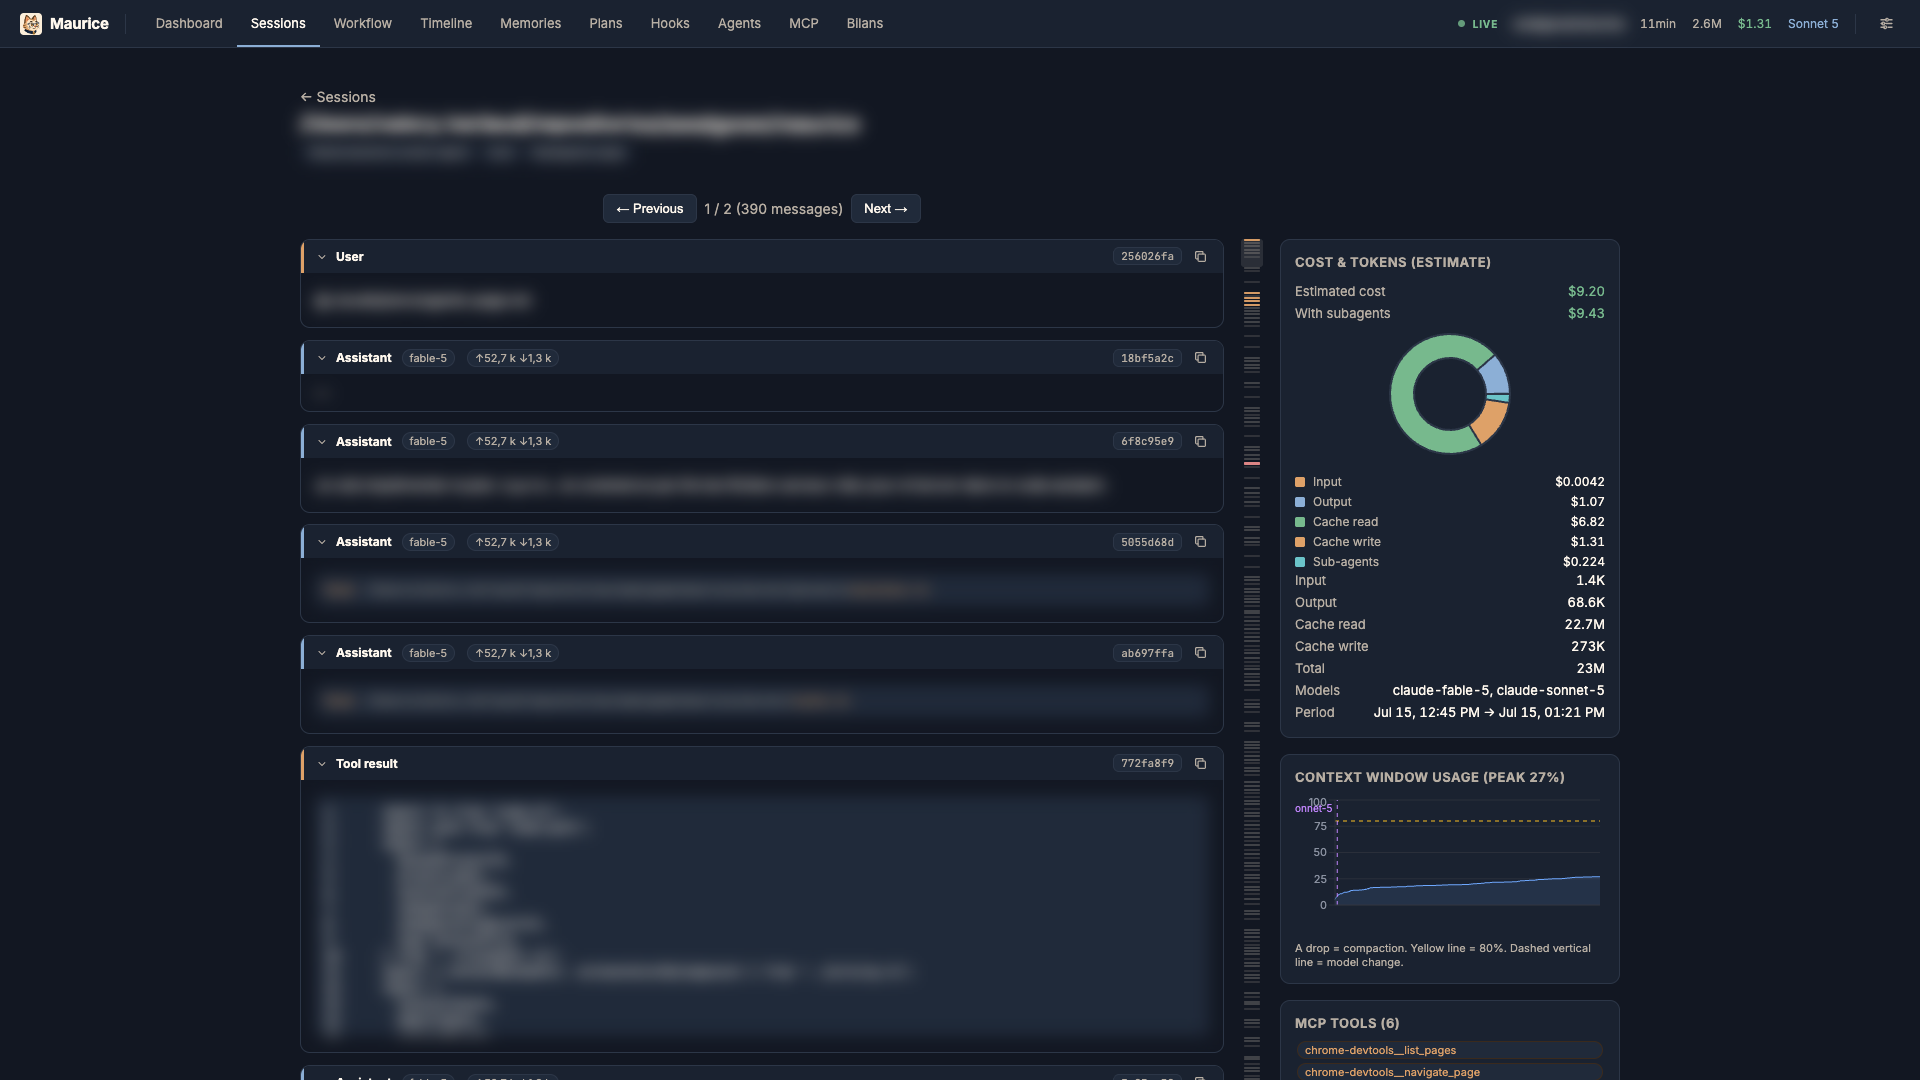
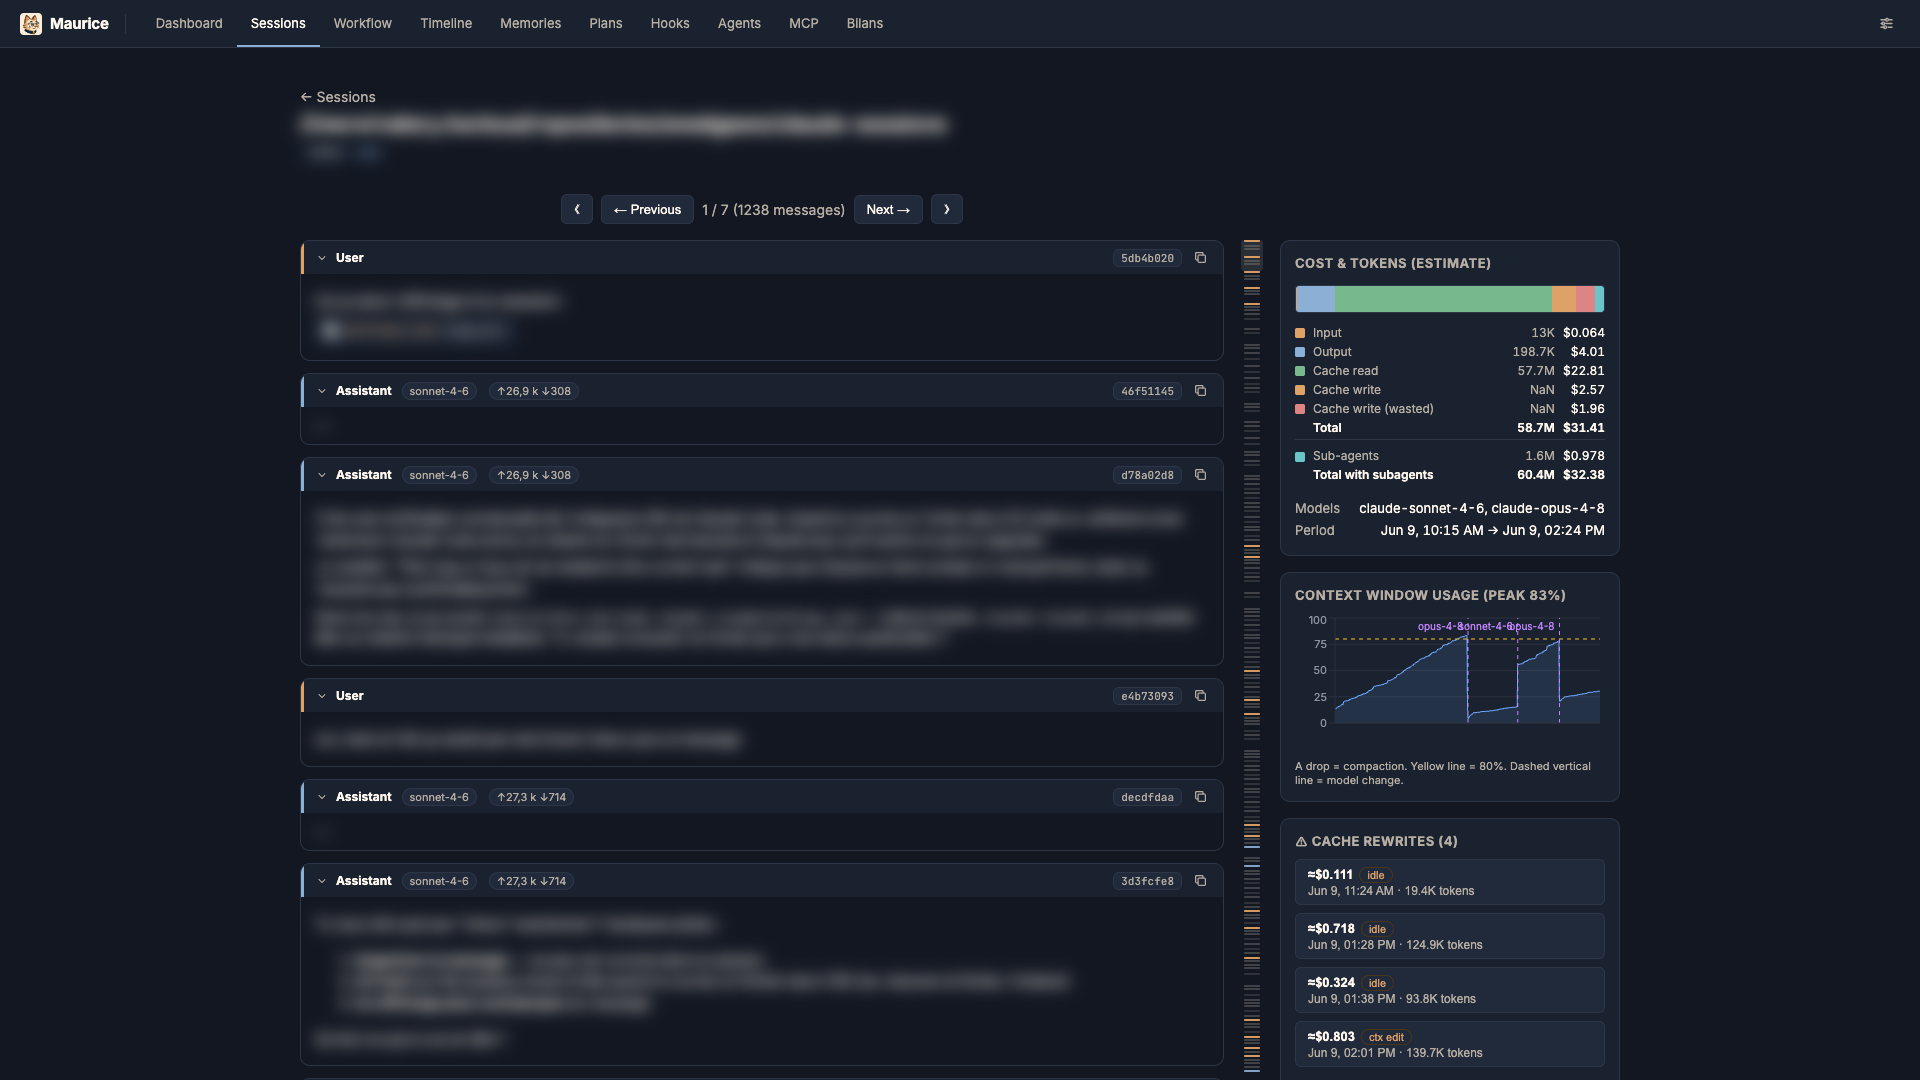
docs(release): describe cost breakdown table and refresh session-detail screenshot
README/CHANGELOG still described the retired cost-breakdown donut;
the panel is now a merged tokens+cost table with a stacked bar strip.
Recaptured docs/screenshots/session-detail.png to match.

diff --git a/README.md b/README.md
@@ -51,7 +51,7 @@ npm start        # serves dist/ + API on http://localhost:5174
 
 - **Dashboard** — analytics overview over a period (7 / 30 / 90 days / all): KPIs (cost, tokens, sessions, cost per session, cache-hit %, error rate), activity charts (cost & sessions over time, day×hour heatmap), cost breakdown by model / skill / project, most expensive sessions, token composition, context-peak distribution, and MCP tool usage. Cards link through to filtered Sessions.
 - **Sessions** — all sessions: project, ticket, skills, date, messages, tokens, **estimated cost**, **peak context window fill**, error badge, subagent count. Full-text search + filters (project / ticket / skill / model / MCP / errors). Includes a **branch column** and an **active session indicator** in the topbar.
-- **Detail** — readable thread (errors highlighted, thoughts collapsible), context window fill curve (drop = compaction, dashed markers on **model switches**, per-model window %), cost/token panel with a **cost breakdown donut** (input / output / cache read / cache write / subagents), **MCP** tools called, **subagents** (clickable transcripts, own cost surfaced, unified with the session view), and a "copy `claude --resume <id>`" button. First/last page navigation buttons (⟪ / ⟫). Renders **inline images** embedded in the thread — both uploaded images and those returned by MCP tool results. Navigate into/out of **rewind-abandoned thread forks**, with a deep link back to the divergence point. A quick-nav panel jumps straight to any **prompt-cache rewrite** warning in the thread.
+- **Detail** — readable thread (errors highlighted, thoughts collapsible), context window fill curve (drop = compaction, dashed markers on **model switches**, per-model window %), cost/token panel with a **cost breakdown table** merging tokens and estimated cost per component (input / output / cache read / cache write / subagents) with a stacked bar strip, **MCP** tools called, **subagents** (clickable transcripts, own cost surfaced, unified with the session view), and a "copy `claude --resume <id>`" button. First/last page navigation buttons (⟪ / ⟫). Renders **inline images** embedded in the thread — both uploaded images and those returned by MCP tool results. Navigate into/out of **rewind-abandoned thread forks**, with a deep link back to the divergence point. A quick-nav panel jumps straight to any **prompt-cache rewrite** warning in the thread.
 - **Cache rewrite warnings** — the provider's prompt cache expires after ~5min idle, so returning to a session after a break re-writes the whole context at the cache-write rate instead of reading it. Maurice detects this per billed request (idle vs. context-edit cause), flags it inline on the message, and aggregates it per session (count + estimated wasted cost) as a sortable column in Sessions.
 - **Workflow** — sessions pivoted by **skill** (default), ticket, or branch, with per-group aggregates. Tokens/cost in the skill pivot are attributed **per message** (`attributionSkill`), so no double-counting across skills.
 - **Timeline** — Gantt-style view of sessions as time-positioned bars, grouped into lanes by **ticket** (default), branch, or project, colored by model, with a period filter.

diff --git a/CHANGELOG.md b/CHANGELOG.md
@@ -8,7 +8,7 @@ All notable changes to this project are documented in this file. Format loosely 
 
 - **Agents page** — a `/agents` view joining every `agentType` seen in subagent transcripts with its on-disk definition (`~/.claude/agents`, a project's `.claude/agents`, or an installed plugin), inferring an origin (builtin/custom/plugin/unknown). Same data exposed via `GET /api/agents` and a new MCP `agents` tool.
 - **Per-subagent cost** — subagent cost/tokens, previously invisible, are now computed per transcript (own and with descendants) and aggregated onto the session without folding into its own cost. Sessions and subagents now render through one unified, agnostic detail view, with a subagents panel and drill-down navigation.
-- **Cost breakdown donut** — the shared "Cost & tokens" panel (session or subagent) gets a small pie chart splitting estimated cost into input, output, cache read, cache write (regular vs. wasted-by-rewrite), and subagents' share.
+- **Cost breakdown table** — the shared "Cost & tokens" panel (session or subagent) gets a merged tokens+cost table with a small stacked bar strip, splitting estimated cost into input, output, cache read, cache write (regular vs. wasted-by-rewrite), and subagents' share.
 - **Per-model context window** — context fill % is now computed against each turn's own model window instead of a single global `CONTEXT_WINDOW`, correctly reflecting 1M-window models (Fable, Opus 4.5+, Sonnet 5+). The session chart marks main-thread model switches with dashed vertical lines.
 
 ### Changed
